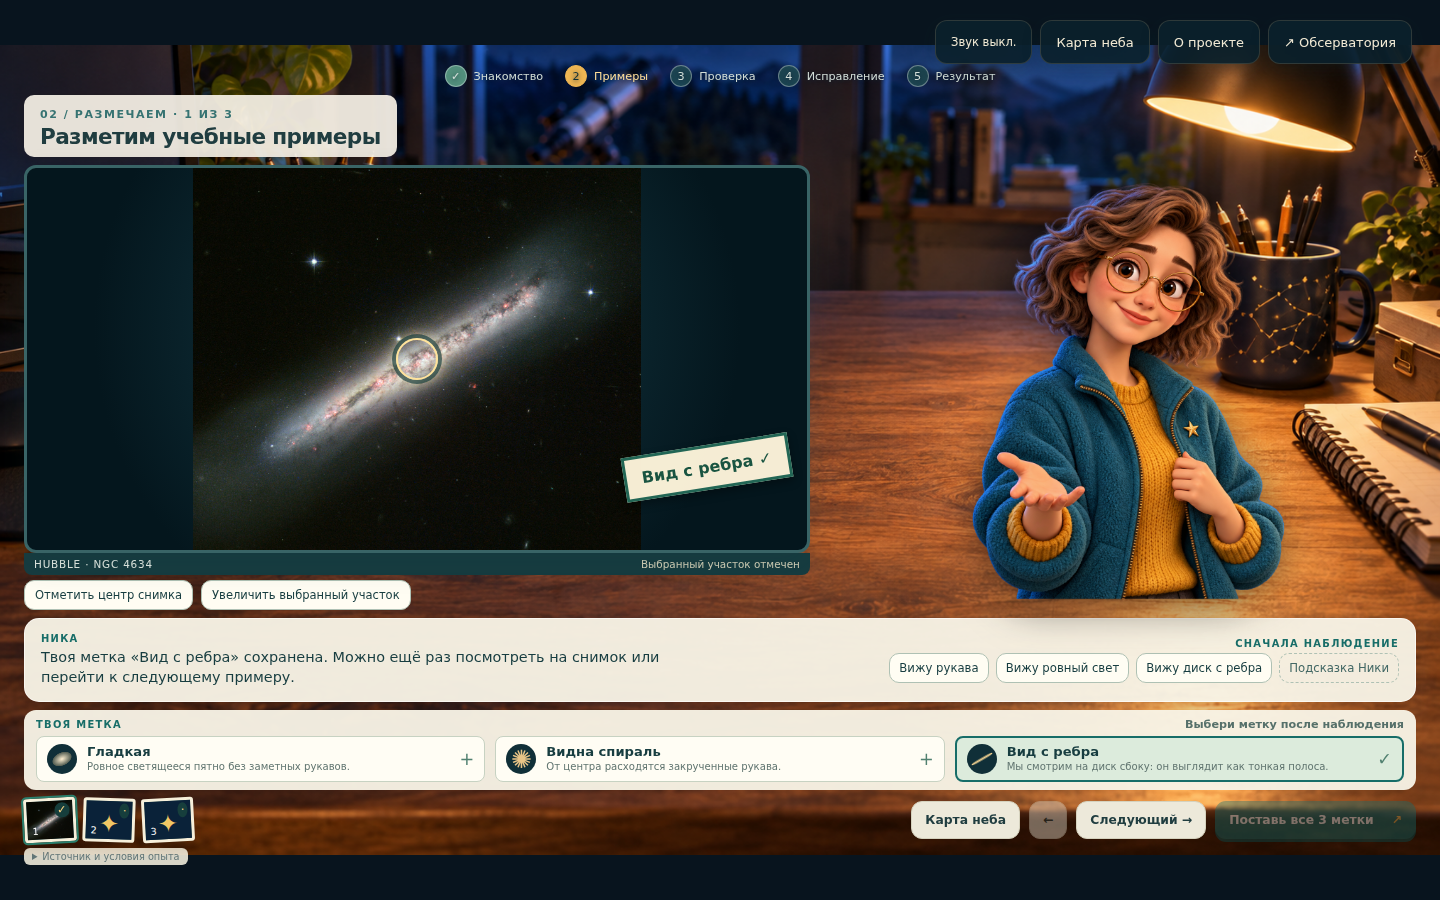
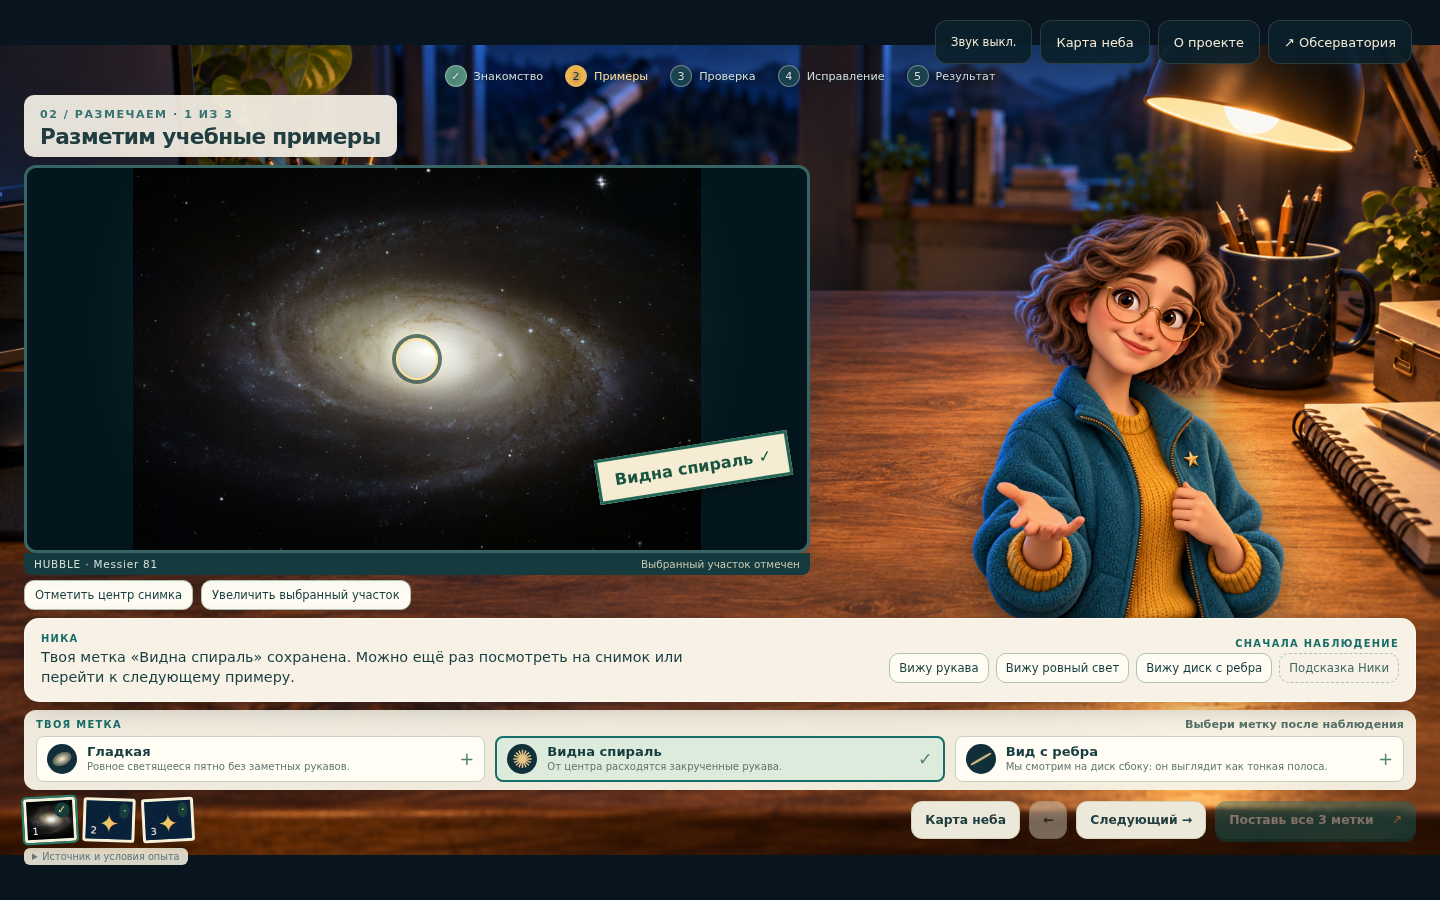
Record verified Nika pose and tutorial clarification

diff --git a/designlab/galaxy-shift/check-browser.py b/designlab/galaxy-shift/check-browser.py
@@ -37,8 +37,10 @@ def run(page, entry, capture=False, offline=True):
 
     def quest(stage_name, labels_before=None):
         scene = page.locator('.quest-scene')
+        scene.evaluate("async el => { await Promise.all(el.closest('.station').getAnimations().map(a => a.finished)); }")
         assert scene.is_visible(), stage_name
         nika = scene.locator('.quest-scene__nika img')
+        page.wait_for_function('(img) => img.complete && img.naturalWidth > 0', arg=nika.element_handle())
         assert nika.count() == 1 and nika.evaluate('(img) => img.complete && img.naturalWidth > 0'), stage_name
         assert nika.bounding_box()['height'] >= 290, stage_name
         photo_area = scene.locator('.quest-scene__photo-area').bounding_box()

diff --git a/tools/galaxy-release/RELEASE.md b/tools/galaxy-release/RELEASE.md
@@ -207,3 +207,23 @@ SSH SOCKS закрыт. Документы и 12 исходных коммент
 детей этими техническими проверками не установлены.
 
 Откат: `tools/galaxy-release/rollback.sh sd2026-public:galaxy-20261007-4`.
+
+## Выпуск 7 октября: quest.6
+
+Runtime `eb1d318`, версия `2026.10.07-quest.6`, образ
+`sd2026-public:galaxy-20261007-6`,
+`sha256:5a8624c2d2c64959a87c5e74179e3a6f6cc42b5d645218adbbb798ad3e4e5711`.
+96 ресурсов; ZIP — 30 392 900 байт.
+
+В сцене исследования указующий наружу жест заменён спокойной позой с взглядом
+в сторону снимка. Нижний край фигуры закрыт непрозрачной панелью разговора.
+В знакомстве указаны действия и явная кнопка «Завершить знакомство →».
+На 1280×720 композиция просмотрена вручную. Полный маршрут четырёх
+настольных размеров и извлечённого ZIP — PASS. Браузерная проверка теперь
+дожидается завершения появления сцены и загрузки портрета перед измерением.
+
+Откат: `tools/galaxy-release/rollback.sh sd2026-public:galaxy-20261007-5`.
+
+Все 96 ресурсов и ZIP сверены на upstream и публичном HTTPS; полный
+публичный маршрут — PASS. Документы и 12 исходных комментариев сохранены,
+контейнер комментариев не перезапущен. PR открыт, не слит.
